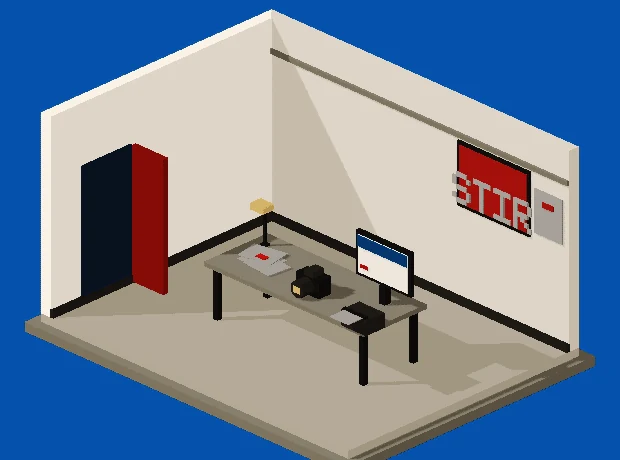
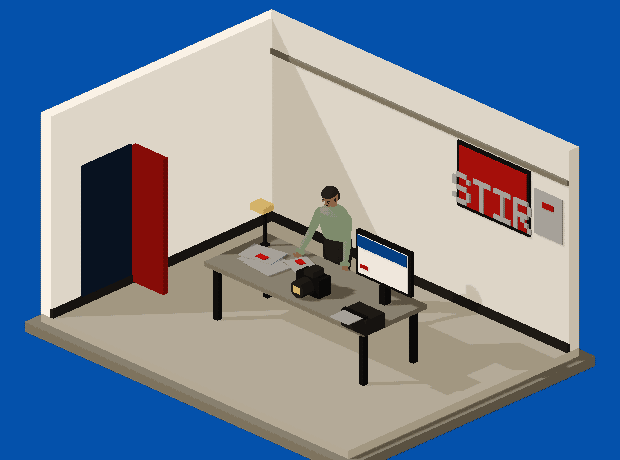
The founder, in the working room
Builds the figure the two-scenes brief asked for, from the supplied
photograph and nothing else: deep brown skin, hair cropped close, a
full beard, a sage-green long-sleeve crew. The photograph is a
head-and-shoulders frame and does not show what he is wearing below
the waist, so that is a neutral dark rather than an invention. He
works from the far side of the worktable, leaning in with both hands
on the layouts — the table separates him from the floor and the key
reaches his face instead of the back of his head.

Palette. It had no skin tones at all, which is why the hero's cast
figures were snapping to the warm grey ramp. Four steps of one deep
brown and four of the sage are paid for by trimming the cobalt and
glass ramps (the cobalt surround is written as an exact value by the
post pass, not picked from the ramp) and by two entries measured as
dead: across stills of all three scenes, nothing snapped to the
brightest cobalt or to the chrome step. Still exactly 64.

Materials. A normal albedo let the warm key repaint the facets it
caught: measured, a band across his chest came back #7E735E against
#7E8B6C everywhere else, the same luminance and 24 points less green.
Holding most of each surface in the emissive term and keeping the
albedo low lets the key vary the facets without changing their hue.

Two QA repairs found on the way, both false greens:

- build-squarespace.py rewrote the asset base to a relative path in
[…]

diff --git a/scene/src/scene/founder.js b/scene/src/scene/founder.js
@@ -1,0 +1,114 @@
+import * as THREE from 'three';
+import { buildPerson, setPose } from '../kit/peopleModel-street.js';
+import { STAND, mixPose } from '../kit/poses.js';
+import { flat, lit } from './studio.js';
+
+/**
+ * The founder, in the working room.
+ *
+ * Everything about his appearance comes from the supplied photograph
+ * and nothing else: deep brown skin, hair cropped close with a clean
+ * line, a full beard, a sage-green crew-neck top. The photograph is a
+ * head-and-shoulders frame, so it does not show what he is wearing
+ * below the waist — that is kept to a neutral dark rather than
+ * invented, and the table covers most of it anyway.
+ *
+ * The brief asks for a tall figure, so the kit's 1.69 m skeleton is
+ * scaled up a tenth against the room's own furniture — a proportion,
+ * not a claim about his height, which nothing here knows. The scale
+ * goes on the group so the pixel treatment, the palette snap and the
+ * ink contour all land on him the same way they land on the walls.
+ *
+ * The pose is absorbed rather than posed: weight settled, a slight
+ * lean in, head down over the proof on the table. The face is a few
+ * pixels at this size and is not asked to carry anything; the
+ * silhouette and the action do that.
+ */
+
+/* The room is a deep recess facing the camera and the exterior key never
+   reaches into it — which is why the walls, the table and the lamp are all
+   built with lit() rather than flat(). The figure needs the same treatment
+   or he renders on ambient alone: measured, a flat sage top came back as
+   warm grey and the skin bottomed out on the two darkest steps of its own
+   ramp. The emissive term holds each surface near its own colour and lets
+   Lambert spread the rest of the ramp across the shaded faces. */
+/* Low albedo, high emissive. The warm key (0xfff4e2) still reaches the
+   front of this figure even though the room is a recess, and at a normal
+   albedo the facets it catches lost their green: measured, the lit band
+   across his chest came back #7E735E against #7E8B6C everywhere else —
+   the same luminance, 24 points less green. Holding most of the surface
+   in the emissive term and leaving the albedo low means the key varies
+   the facets without repainting their hue. */
+const cloth = (hex, albedo = 0.34, k = 0.82) => new THREE.MeshLambertMaterial({
+  color: new THREE.Color(hex).multiplyScalar(albedo),
+  emissive: hex,
+  emissiveIntensity: k,
+  flatShading: true,
+});
+
+const SKIN = ['#8B6446', '#6E4B34', '#4F3425', '#352318']
+  .map((h) => cloth(parseInt(h.slice(1), 16)));
+const SAGE = cloth(0x8E9B7B);
+const SAGE_SHADE = cloth(0x76835F);
+const NEUTRAL = lit(0x241A12, 0.30);   // not visible in the reference; kept dark and plain
+
+const MATS = {
+  cloth: { navy: SAGE, charcoal: NEUTRAL, coral: SAGE_SHADE, rose: SAGE_SHADE },
+  skinTones: SKIN,
+  hair: [lit(0x241E18, 0.34), lit(0x15110D, 0.34)],
+  leather: NEUTRAL,
+  steelDark: flat(0x434E56),
+  ink: flat(0x161310),
+  eye: flat(0x100E0C),
+  mouth: lit(0x4F3425, 0.4),
+  glass: flat(0x17304A),
+  chrome: flat(0x8E9AA3),
+  bone: flat(0xEFE7DC),
+  paper: flat(0xFAF2E6),
+  roseDeep: SAGE_SHADE,
+  rust: flat(0xB99650),
+  rustLight: flat(0xD4B36A),
+};
+
+const TALL = 1.10;
+
+export function buildFounder(parent, x, y, z, rotY) {
+  const p = buildPerson(MATS, {
+    skin: SKIN[0],
+    hair: MATS.hair[0],
+    top: SAGE,
+    bottom: NEUTRAL,
+    shoe: NEUTRAL,
+    sleeve: 'long',          // the reference is a long-sleeve crew
+  });
+  const g = p.group;
+  g.scale.setScalar(TALL);
+  g.position.set(x, y, z);
+  g.rotation.y = rotY;
+
+  /* He works from the far side of the table, facing back into the room,
+     so the table separates him from the floor and the key light reaches
+     his face instead of the back of his head. Both hands are planted on
+     the sheets, weight on one leg, head down over the work. Built off
+     STAND so the stance stays a stance and not a posed figure. */
+  const absorbed = {
+    torso: [0.19, 0.03, 0],
+    head: [0.20, -0.05, 0],
+    shoulderL: [-0.56, 0, -0.26],
+    shoulderR: [-0.52, 0, 0.21],
+    elbowL: [-0.18, 0, 0],
+    elbowR: [-0.24, 0, 0],
+    wristL: [0.26, 0, 0],
+    wristR: [0.22, 0, 0],
+    hipL: [0.06, 0, 0.03],
+    hipR: [-0.06, 0, -0.03],
+    kneeL: [0.05, 0, 0],
+    kneeR: [0.13, 0, 0],
+    ankleL: [-0.02, 0, 0],
+    ankleR: [-0.07, 0, 0],
+  };
+  setPose(p, mixPose(STAND, absorbed, 1));
+
+  parent.add(g);
+  return p;
+}

diff --git a/scene/src/scene/palette.js b/scene/src/scene/palette.js
@@ -22,19 +22,35 @@ export const PALETTE_HEX = [
   // red — door and campaign sheet
   '#FF6A5C', '#FA4136', '#F21B16', '#DF1510',
   '#C4120D', '#A50F0A', '#860C07', '#670905',
-  // cobalt — the field, and anything catching it
-  '#2E86E8', '#1E78DC', '#0F69CD', '#0A5CBC', '#0451AB',
-  '#044897', '#053F83', '#05356D', '#042B58', '#031F42',
+  // cobalt — the field, and anything catching it. Trimmed from ten to
+  // seven: the surround is written as an exact value by the post pass
+  // rather than picked from this ramp, so the extra steps were only
+  // ever available to geometry that never used them.
+  '#0F69CD', '#0451AB',
+  '#044897', '#053F83', '#042B58', '#031F42',
   // glass: blue-black, not grey. Unlit windows are holes with sky in them.
-  '#1B3250', '#152942', '#102036', '#0C192B',
-  '#081220', '#0E2238', '#17304A', '#223E5C',
+  '#1B3250', '#152942', '#0C192B', '#081220', '#17304A',
+
+  // skin — four steps of one deep brown, read from the supplied
+  // photograph rather than chosen. Without these the figures in every
+  // scene were snapping to the warm grey ramp, which is why the hero's
+  // two read as silhouettes.
+  '#8B6446', '#6E4B34', '#4F3425', '#352318',
+  /* The sage crew top, from the same photograph. Four steps, not two:
+     the torso is a lathe and its facets span a wider range of N·L than
+     two steps can hold, so with a two-step ramp the lit facets walked
+     off the top of it into the warm greys and put a grey band across
+     his chest. Measured across all three scenes, the brightest cobalt
+     and the chrome step were snapped to by nothing, so this ramp is
+     paid for out of those two slots rather than added. */
+  '#B8C4A2', '#9DAA8A', '#7E8B6C', '#616B52',
   // cream turned by the blue bounce on shadow faces. These were neutral
   // greys, which is what the lit cream was snapping to; they keep their
   // cool cast relative to the cream ramp but are no longer colourless.
   '#DDD5C7', '#C9C0AF', '#B4AA98', '#9E9583', '#88806F', '#72695B',
   // lit glass, brass, metal
   '#F7E7B8', '#E8D08A', '#D4B36A', '#B99650',
-  '#8E9AA3', '#73808A', '#5A666F', '#434E56',
+  '#73808A', '#5A666F', '#434E56',
 ];
 
 if (PALETTE_HEX.length !== 64) {

diff --git a/scene/src/scene/room.js b/scene/src/scene/room.js
@@ -1,5 +1,6 @@
 import * as THREE from 'three';
 import { C, M, box, flat, lit } from './studio.js';
+import { buildFounder } from './founder.js';
 
 /**
  * THE WORKING ROOM — a room inside the cream STIR building, seen as an
@@ -12,10 +13,9 @@ import { C, M, box, flat, lit } from './studio.js';
  * outside it is the oversized sheet, here it is a working proof pinned
  * to the back wall at a fraction of the size.
  *
- * Unoccupied. The brief's founder figure is NOT here: it asks for his
- * appearance and clothing to come from supplied photographs, and none
- * were supplied. Inventing a likeness of a real person is the one thing
- * that must not be guessed, so the room is built to take him later.
+ * Occupied by one figure: the founder, at the table, reviewing a proof.
+ * His appearance comes from the supplied photograph and nothing else.
+ * No second figure, and nothing that would imply a larger team.
  */
 
 const R = { w: 5.6, d: 4.2, h: 2.9, wall: 0.18 };
@@ -113,6 +113,18 @@ export function buildRoom(scene) {
   box(G, M.ink, 0.1, 0.03, 0.1, tx - 1.22, tH + 0.07, tz - 0.3);
   box(G, M.ink, 0.04, 0.5, 0.04, tx - 1.22, tH + 0.1, tz - 0.3);
   box(G, M.glassLit, 0.24, 0.09, 0.2, tx - 1.26, tH + 0.58, tz - 0.28);   // the lit shade
+
+  /* The founder, at the far long side of the table, facing back into
+     the room. Placed after the furniture so his contact shadow falls on
+     the floor that is already there. */
+  buildFounder(G, tx - 0.42, 0, tz - 0.82, 0.20);
+
+  /* The proof he is reading: a cream sheet with one red mark, square
+     to him rather than to the table. */
+  const proof = box(G, M.cream, 0.44, 0.012, 0.32, tx - 0.46, tH + 0.07, tz - 0.22);
+  proof.rotation.y = -0.34;
+  const mark = box(G, M.red, 0.14, 0.008, 0.09, tx - 0.54, tH + 0.082, tz - 0.26);
+  mark.rotation.y = -0.34;
 
   scene.add(G);
   G.userData.print = print;

diff --git a/scene/src/main.js b/scene/src/main.js
@@ -129,8 +129,33 @@ function resize() {
   updateCamera(camera, w / h, FITS);
 }
 
+/* Debug camera for the QA harness. view(pos, tgt, span) frames `span`
+   metres around tgt, seen from pos, so one figure can be checked close up
+   for joint gaps, floating parts and a knee bending the wrong way — all of
+   which hide at the 30-45 px a figure occupies in the real frame. view()
+   with no arguments restores the locked fit. Nothing on the page calls it;
+   the website ships rendered stills, not this bundle. */
+let override = null;
+function applyView() {
+  if (!override) return;
+  const w = canvas.clientWidth, h = canvas.clientHeight;
+  if (w < 2 || h < 2) return;
+  const a = Math.max(0.3, w / h);
+  const { pos, tgt, span } = override;
+  camera.left = (-span * a) / 2;
+  camera.right = (span * a) / 2;
+  camera.top = span / 2;
+  camera.bottom = -span / 2;
+  camera.position.set(pos[0], pos[1], pos[2]);
+  camera.lookAt(new THREE.Vector3(tgt[0], tgt[1], tgt[2]));
+  camera.near = 0.01;
+  camera.far = 400;
+  camera.updateProjectionMatrix();
+}
+
 function draw(t) {
   resize();
+  applyView();
   /* One travelling wave, phase wrapping 0..1 over the loop, so the final
      frame and the first frame are the same geometry by construction rather
      than by a crossfade. */
@@ -160,5 +185,9 @@ window.__diorama = {
   THREE, scene, camera, renderer, post, studio, sheet, cast, room, seat, SCENE, LOOP,
   freeze(t) { frozen = t; draw(t); },
   play() { frozen = null; },
+  view(pos, tgt, span = 2.6) {
+    override = pos ? { pos, tgt: tgt || [0, 1, 0], span } : null;
+    draw(frozen ?? 0);
+  },
 };
 window.__dioramaReady = true;

diff --git a/squarespace/ready/03-page-home.html b/squarespace/ready/03-page-home.html
@@ -351,7 +351,7 @@
         <picture>
           <source media="(max-width: 767px)" srcset="https://stirnyc.netlify.app/assets/scene/room-phone.webp" width="390" height="300">
           <img src="https://stirnyc.netlify.app/assets/scene/room-desk.webp" width="620" height="460" loading="lazy" decoding="async"
-               alt="Illustration: a cutaway of a room inside the STIR studio, drawn as an isometric pixel diorama. A worktable holds paper layouts, a camera and a monitor showing a cream and cobalt page; a small red campaign proof is pinned to the cream wall and the familiar red door stands open at one edge.">
+               alt="Illustration: a cutaway of a room inside the STIR studio, drawn as an isometric pixel diorama. Rasheed stands at a worktable, leaning over paper layouts with one hand on a proof; a camera and a monitor showing a cream and cobalt page sit beside him, a small red campaign proof hangs on the cream wall and the familiar red door stands open at one edge.">
         </picture>
       </figure>
   </div>

diff --git a/squarespace/_preview.html b/squarespace/_preview.html
@@ -399,7 +399,7 @@
         <picture>
           <source media="(max-width: 767px)" srcset="../assets/scene/room-phone.webp" width="390" height="300">
           <img src="../assets/scene/room-desk.webp" width="620" height="460" loading="lazy" decoding="async"
-               alt="Illustration: a cutaway of a room inside the STIR studio, drawn as an isometric pixel diorama. A worktable holds paper layouts, a camera and a monitor showing a cream and cobalt page; a small red campaign proof is pinned to the cream wall and the familiar red door stands open at one edge.">
+               alt="Illustration: a cutaway of a room inside the STIR studio, drawn as an isometric pixel diorama. Rasheed stands at a worktable, leaning over paper layouts with one hand on a proof; a camera and a monitor showing a cream and cobalt page sit beside him, a small red campaign proof hangs on the cream wall and the familiar red door stands open at one edge.">
         </picture>
       </figure>
   </div>

diff --git a/index.html b/index.html
@@ -373,7 +373,7 @@
         <picture>
           <source media="(max-width: 767px)" srcset="assets/scene/room-phone.webp" width="390" height="300">
           <img src="assets/scene/room-desk.webp" width="620" height="460" loading="lazy" decoding="async"
-               alt="Illustration: a cutaway of a room inside the STIR studio, drawn as an isometric pixel diorama. A worktable holds paper layouts, a camera and a monitor showing a cream and cobalt page; a small red campaign proof is pinned to the cream wall and the familiar red door stands open at one edge.">
+               alt="Illustration: a cutaway of a room inside the STIR studio, drawn as an isometric pixel diorama. Rasheed stands at a worktable, leaning over paper layouts with one hand on a proof; a camera and a monitor showing a cream and cobalt page sit beside him, a small red campaign proof hangs on the cream wall and the familiar red door stands open at one edge.">
         </picture>
       </figure>
   </div>

diff --git a/scripts/build-squarespace.py b/scripts/build-squarespace.py
@@ -226,6 +226,11 @@ def main():
         page = shell.replace('<!--STIR-HEAD-->', head)
         page = page.replace('<!--STIR-BODY-->', body)
         page = page.replace('<!--STIR-FOOT-->', foot)
+        # The markup needs the same rewrite the stylesheet already got.
+        # Without it every <img> and <source> in the preview pointed at
+        # the live deploy, so the one check that is supposed to run with
+        # no network at all silently depended on one.
+        page = page.replace(BASE, '../assets/')
         name = '_preview.html' if src == 'index.html' else f'_preview-{num[3:]}.html'
         (ROOT / 'squarespace' / name).write_text(page)
 
